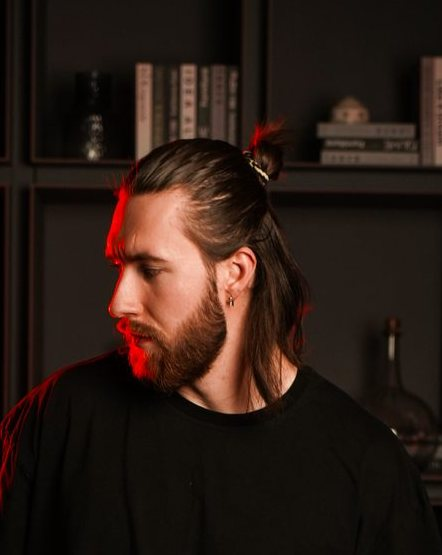
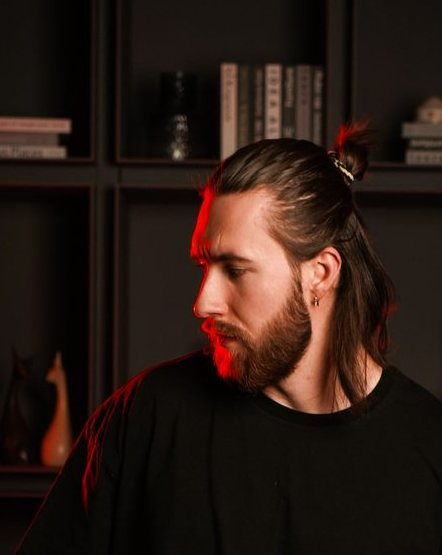
/team хиро: фото рядом вместо веера - ряд со ступенями и плавным парением в разных фазах; параллакс убран, кроп Павла по центру

diff --git a/team.html b/team.html
@@ -184,27 +184,28 @@ body.cursor-hidden .cursor-dot, body.cursor-hidden .cursor-outline { opacity: 0 
 ::selection{background:rgba(14,224,207,.25);color:var(--heading)}
 .scroll-progress{position:fixed;top:0;left:0;right:0;height:2px;background:linear-gradient(90deg,var(--accent),rgba(14,224,207,.4));transform-origin:0 50%;transform:scaleX(0);z-index:50;box-shadow:0 0 8px rgba(14,224,207,.5)}
 .hero-grid{display:grid;grid-template-columns:minmax(0,1.15fr) minmax(340px,430px);gap:56px;align-items:center}
-.hero-shots{position:relative;height:340px;perspective:900px;width:436px;max-width:100%;margin-left:auto}
-.shot{position:absolute;width:210px;height:260px;border-radius:16px;border:1px solid var(--brd);background:radial-gradient(120% 90% at 50% 0%,rgba(14,224,207,.08),transparent 60%),#050505;display:flex;align-items:center;justify-content:center;overflow:hidden;box-shadow:0 18px 50px rgba(0,0,0,.55);transition:transform .45s cubic-bezier(.22,1,.36,1),border-color .3s;will-change:transform}
+.hero-shots{display:flex;gap:12px;align-items:flex-start;width:440px;max-width:100%;margin-left:auto}
+.shot{position:relative;flex:1;aspect-ratio:4/5;border-radius:16px;border:1px solid var(--brd);background:radial-gradient(120% 90% at 50% 0%,rgba(14,224,207,.08),transparent 60%),#050505;display:flex;align-items:center;justify-content:center;overflow:hidden;box-shadow:0 18px 50px rgba(0,0,0,.55);transition:border-color .3s,box-shadow .3s;will-change:transform}
 .shot span{font-size:40px;font-weight:800;color:rgba(244,244,245,.12);letter-spacing:-.03em}
 .shot img{width:100%;height:100%;object-fit:cover;object-position:50% 24%;display:block}
-.s1{left:0;top:36px;transform:translate3d(var(--px,0px),var(--py,0px),0) rotateY(var(--rx,0deg)) rotateX(var(--ry,0deg)) rotate(-8deg);z-index:1}
-.s2{left:112px;top:6px;transform:translate3d(var(--px,0px),var(--py,0px),0) rotateY(var(--rx,0deg)) rotateX(var(--ry,0deg)) rotate(-1deg);z-index:2}
-.s3{left:226px;top:44px;transform:translate3d(var(--px,0px),var(--py,0px),0) rotateY(var(--rx,0deg)) rotateX(var(--ry,0deg)) rotate(7deg);z-index:3}
+.s1{margin-top:28px}
+.s2{margin-top:0}
+.s3{margin-top:38px}
 @media(hover:hover){
-  .shot:hover{transform:translate3d(var(--px,0px),calc(var(--py,0px) - 8px),0) rotateY(var(--rx,0deg)) rotateX(var(--ry,0deg)) rotate(0deg) scale(1.04);border-color:rgba(14,224,207,.4);z-index:5}
+  .shot:hover{border-color:rgba(14,224,207,.5);box-shadow:0 22px 60px rgba(0,0,0,.65),0 0 26px rgba(14,224,207,.09)}
   .p-tag{transition:border-color .25s,color .25s,transform .25s}
   .p-tag:hover{border-color:rgba(14,224,207,.45);color:var(--heading);transform:translateY(-1px)}
 }
 @media(prefers-reduced-motion:no-preference){
   .hero-txt .label,.hero-txt .lead{opacity:0;animation:fadeUp .7s cubic-bezier(.22,1,.36,1) forwards}
   .hero-txt .lead{animation-delay:.26s}
-  .shot{opacity:0;animation:shotIn .8s cubic-bezier(.22,1,.36,1) forwards}
-  .s1{animation-delay:.2s}.s2{animation-delay:.34s}.s3{animation-delay:.48s}
+  .shot{opacity:0;animation:shotIn .8s cubic-bezier(.22,1,.36,1) forwards,shotFloat 7s ease-in-out 1.4s infinite}
+  .s1{animation-delay:.2s,1.4s}.s2{animation-delay:.34s,1.7s;animation-duration:.8s,8s}.s3{animation-delay:.48s,2s;animation-duration:.8s,9s}
   .page-title::after{content:'';display:block;width:0;height:2px;margin-top:16px;border-radius:2px;background:linear-gradient(90deg,var(--accent),transparent);animation:lineGrow .9s .6s cubic-bezier(.22,1,.36,1) forwards;box-shadow:0 0 10px rgba(14,224,207,.4)}
 }
 @keyframes fadeUp{from{opacity:0;transform:translateY(16px)}to{opacity:1;transform:none}}
 @keyframes shotIn{from{opacity:0;transform:translate3d(0,26px,0)}to{opacity:1}}
+@keyframes shotFloat{0%,100%{transform:translateY(0)}50%{transform:translateY(-9px)}}
 @keyframes lineGrow{to{width:120px}}
 .p-body{position:relative}
 .p-num{position:absolute;top:-14px;right:0;font-size:96px;line-height:1;font-weight:800;color:rgba(244,244,245,.05);letter-spacing:-.04em;pointer-events:none;user-select:none;font-variant-numeric:tabular-nums}
@@ -216,10 +217,9 @@ body.cursor-hidden .cursor-dot, body.cursor-hidden .cursor-outline { opacity: 0 
 @keyframes dustF{0%{transform:translateY(0);opacity:0}8%{opacity:.9}60%{opacity:.5}100%{transform:translateY(-105vh);opacity:0}}
 .btn-white{will-change:transform}
 @media(max-width:900px){.hero-grid{grid-template-columns:1fr;gap:10px}
-  .hero-shots{height:200px;max-width:350px;margin:14px 0 0}
-  .shot{width:130px;height:162px;border-radius:12px}
-  .shot span{font-size:24px}
-  .s1{left:0;top:22px}.s2{left:70px;top:4px}.s3{left:142px;top:26px}
+  .hero-shots{width:100%;max-width:370px;gap:8px;margin:14px 0 0}
+  .shot{border-radius:12px}
+  .s1{margin-top:16px}.s3{margin-top:20px}
   .p-num{font-size:56px;top:-8px}
 }
 
@@ -433,16 +433,6 @@ el.textContent=p<1?pre+Math.round(ease*t).toLocaleString('ru-RU')+suf:fin;if(p<1
 requestAnimationFrame(step)})},{threshold:.15});
 document.querySelectorAll('[data-count]').forEach(function(el){o.observe(el)})})();
 
-/* параллакс веера фото: события, без вечного rAF */
-(function(){if(!(window.matchMedia&&matchMedia('(hover: hover)').matches))return;
-var zone=document.querySelector('.page-header'),shots=document.querySelectorAll('.shot');
-if(!zone||!shots.length)return;var raf=null,nx=0,ny=0;
-zone.addEventListener('mousemove',function(e){
-var r=zone.getBoundingClientRect();nx=(e.clientX-r.left)/r.width-.5;ny=(e.clientY-r.top)/r.height-.5;
-if(raf)return;raf=requestAnimationFrame(function(){raf=null;
-shots.forEach(function(sh){var d=+sh.dataset.depth||8;
-sh.style.setProperty('--px',(nx*d)+'px');sh.style.setProperty('--py',(ny*d)+'px');sh.style.setProperty('--rx',(nx*d*.55)+'deg');sh.style.setProperty('--ry',(-ny*d*.55)+'deg')})})},{passive:true});
-zone.addEventListener('mouseleave',function(){shots.forEach(function(sh){sh.style.setProperty('--px','0px');sh.style.setProperty('--py','0px');sh.style.setProperty('--rx','0deg');sh.style.setProperty('--ry','0deg')})})})();
 
 /* магнитная кнопка CTA */
 (function(){if(!(window.matchMedia&&matchMedia('(hover: hover)').matches))return;
